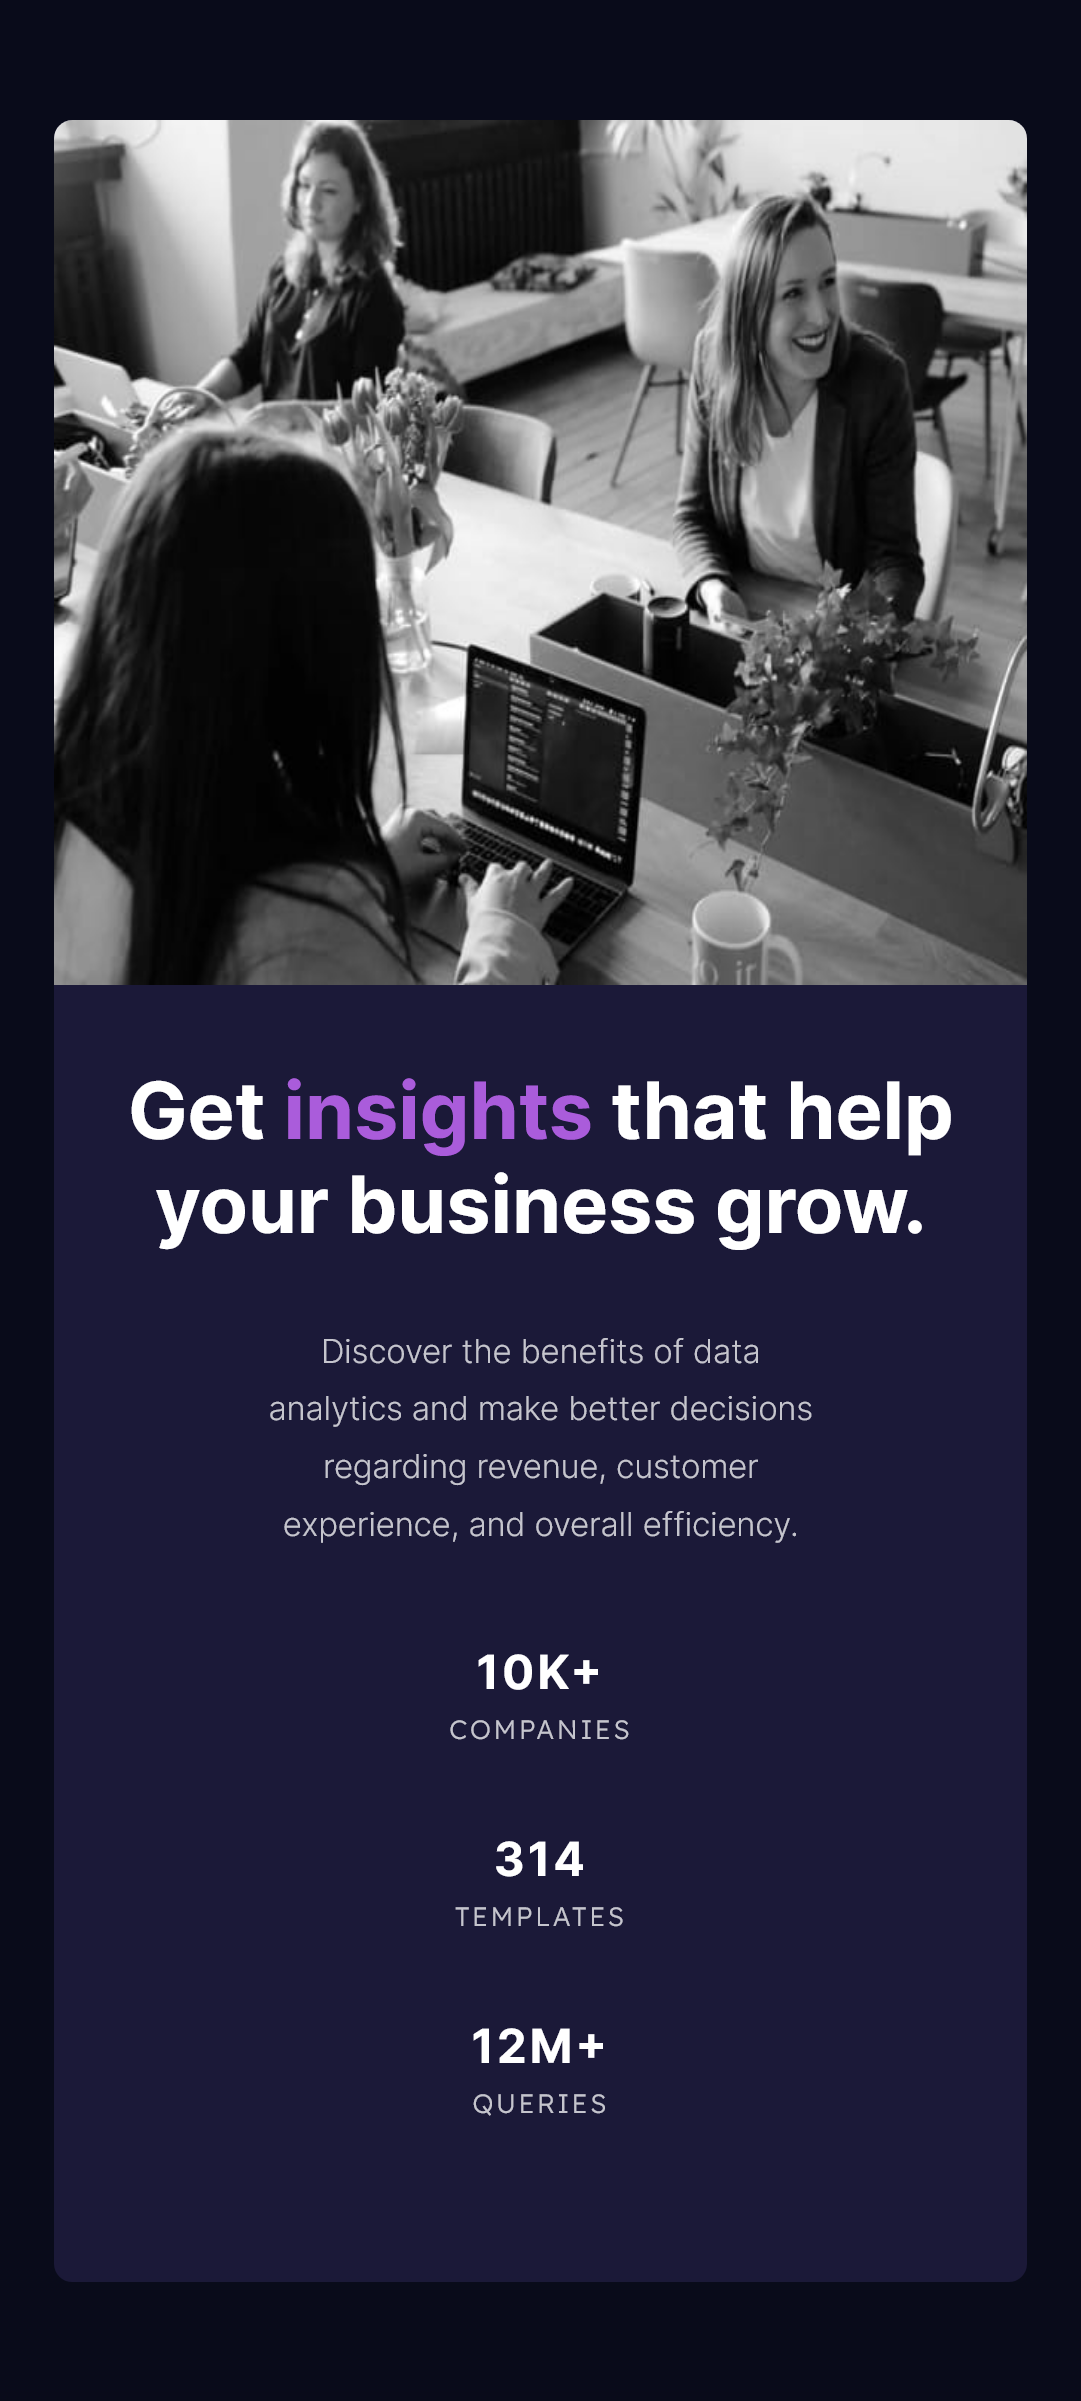
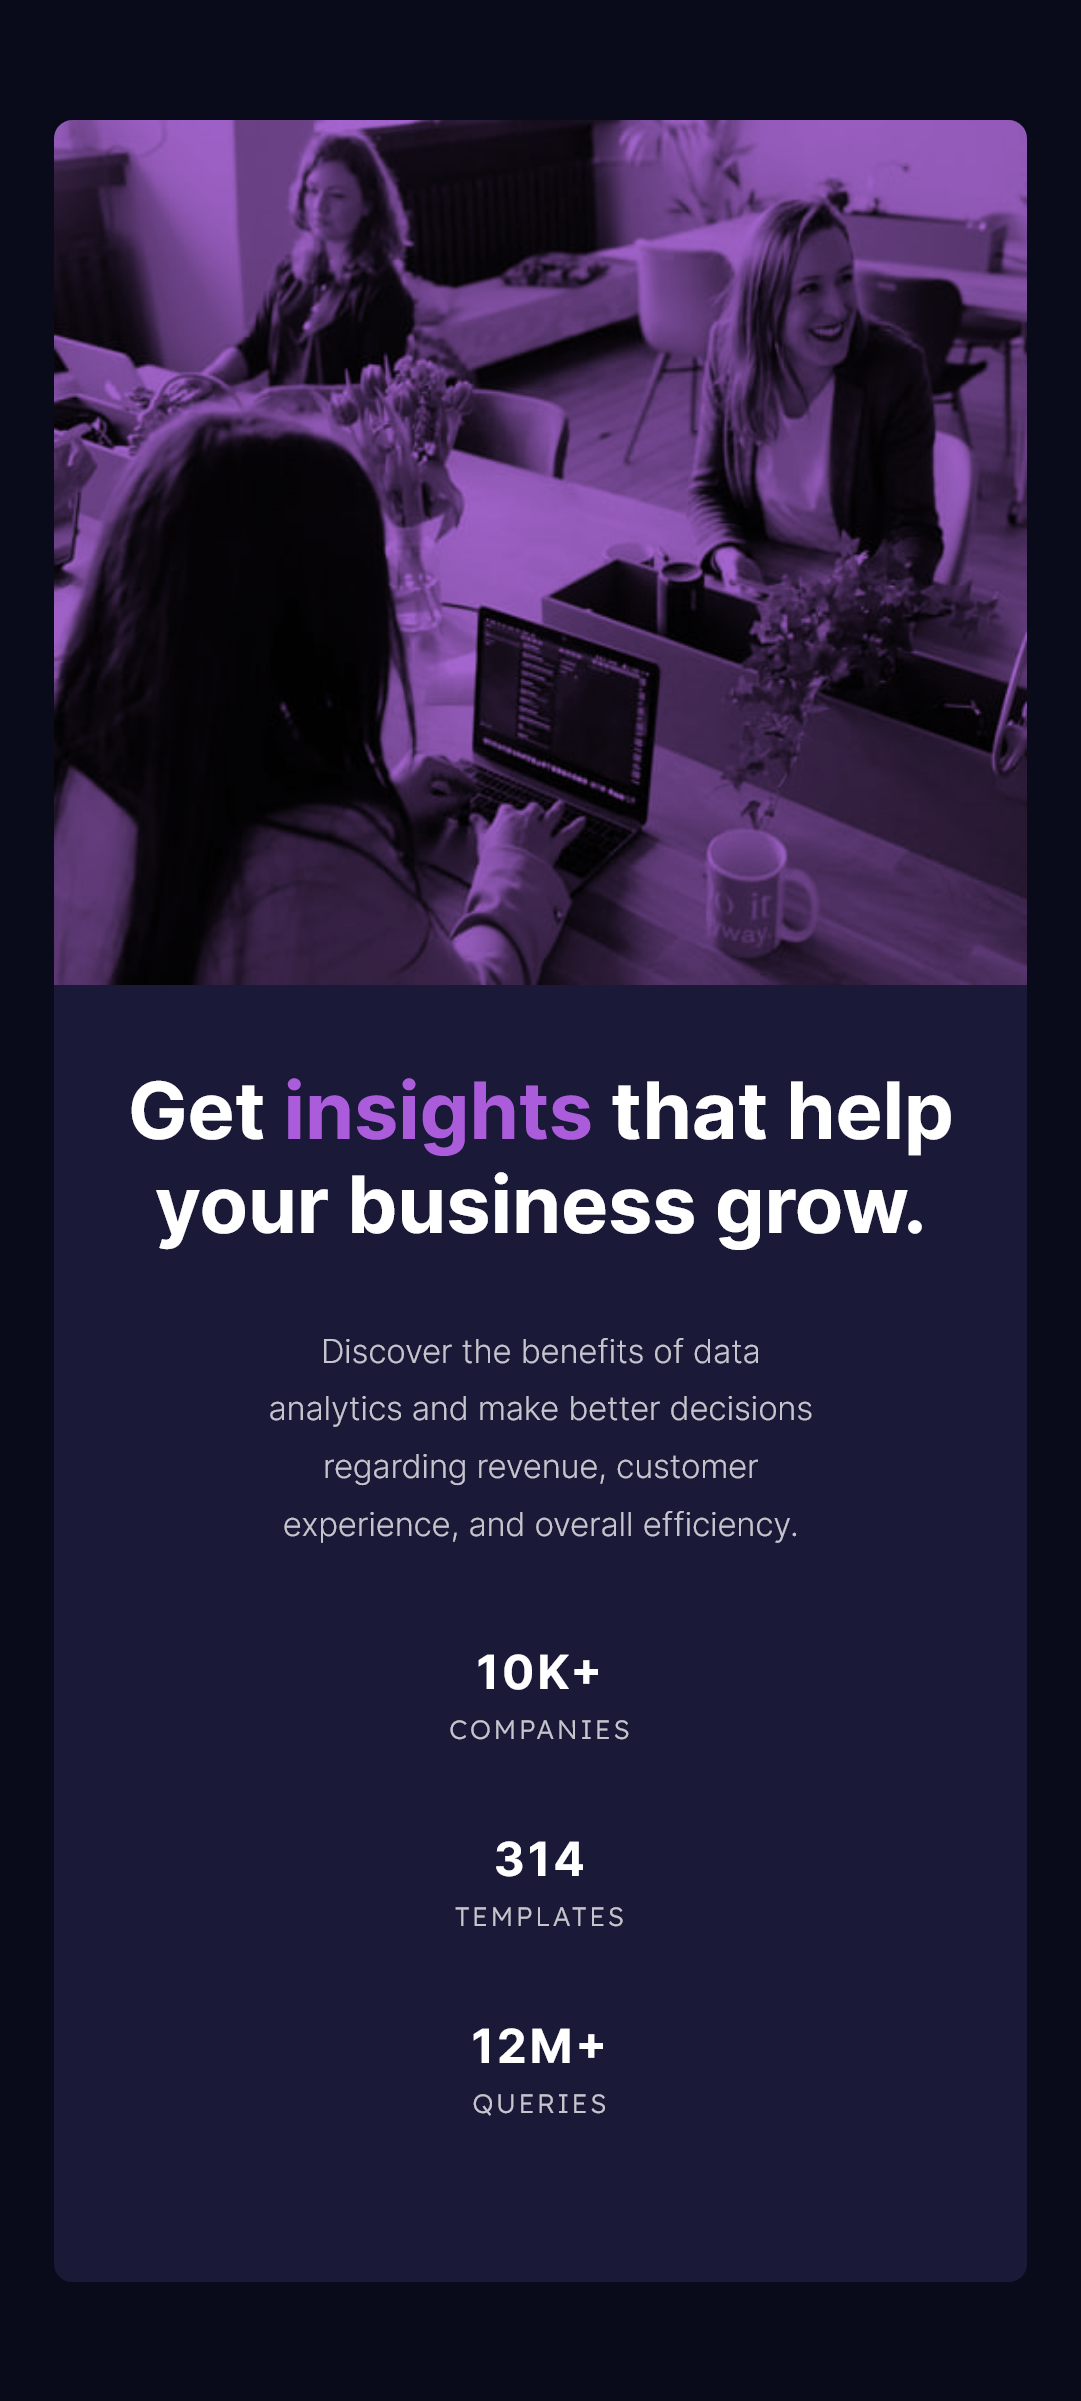
Purple overlay added. HTML Changed. Readme changed.

Changed region(s): [[0.0305, 0.0312, 0.9769, 0.4373]]

diff --git a/style.css b/style.css
@@ -21,6 +21,7 @@
     --clr-neutral-slightly-transparent-white-h1: hsla(0, 0%, 100%, 0.6);
 }
 
+/* general settings */
 * {
     font-size: 15px;
     margin: 0px;
@@ -50,46 +51,42 @@ p {
     color: var(--clr-neutral-slightly-transparent-white-p);
 }
 
+/* stats card */
 .stats-card {
     display: flex;
-    /*align-items: center;*/
     width: 80%;
     height: 360px;
-    /*margin: 30px 18px 30px 18px;*/
     background-color: var(--clr-primary-dark-desaturated-blue);
     border-radius: 7px;
     margin-left: auto;
     margin-right: auto;
 }
 
+/* img div */
 .img-box {
     order: 2;
     width: 86%;
     height: 100%;
-    padding-left: 1%;
-}
-
-.img-box::before {
-    content: "";
-    background-color: var(--clr-primary-soft-violet);
-    height: 100%;
-    width: 100%;
-}
-
-.img-box picture {
-    width: 100%;
-    height: 100%;
-}
-
-.img-box img {
-    width: 100%;
-    height: 100%;
+    padding-left: 0;
+    background-color: hsla(277, 64%, 65%, 0.900);
     border-top-left-radius: 0px;
     border-top-right-radius: 7px;
     border-bottom-left-radius: 0px;
     border-bottom-right-radius: 7px;
 }
 
+.img-box picture {
+    width: 100%;
+    height: 100%;
+    mix-blend-mode: multiply;
+}
+
+.img-box img {
+    width: 100%;
+    height: 100%;
+}
+
+/* stats div */
 .stats-box {
     color: var(--clr-neutral-slightly-transparent-white-p);
     font-family: var(--ff-lexend-deca);
@@ -127,6 +124,7 @@ p {
     font-weight: var(--fw-bold);
 }
 
+/* main box */
 .main-box {
     display: flex;
     flex-direction: column;
@@ -200,6 +198,10 @@ p {
         margin-top: 0;
         padding: 0;
         text-align: center;
+        border-top-left-radius: 7px;
+        border-top-right-radius: 7px;
+        border-bottom-left-radius: 0px;
+        border-bottom-right-radius: 0px;
     }
 
     .img-box picture {
@@ -210,10 +212,6 @@ p {
     .img-box img {
         height: 100%;
         width: 100%;
-        border-top-right-radius: 7px;
-        border-top-left-radius: 7px;
-        border-bottom-left-radius: 0px;
-        border-bottom-right-radius: 0px;
     }
 
     /* main box */
@@ -224,7 +222,6 @@ p {
         margin: 0;
     }
 
-    /* heading box */
     .heading-box {
         height: 20%;
         width: 100%;
@@ -239,7 +236,6 @@ p {
         margin: 0;
     }
 
-    /* paragraph box */
     .paragraph-box {
         margin-left: auto;
         margin-right: auto;
@@ -256,7 +252,6 @@ p {
         padding: 0;
     }
 
-    /* stats box */
     .stats-box {
         margin-left: auto;
         margin-right: auto;
@@ -285,9 +280,3 @@ p {
         margin: 0;
     }
 }
-
-
-
-
-/* Desktop and Mobile widths */
-/* Mobile: 375px  ||  Desktop: 1440px */

diff --git a/index.html b/index.html
@@ -19,8 +19,7 @@
     <div class="stats-card">
       <div class="img-box">
         <picture class="card-bg">
-          <source media="(min-width: 769px)" srcset="./images/image-header-desktop.jpg">
-          <source media="(max-width: 768px)" srcset="./images/image-header-mobile.jpg">
+          <source media="(min-width: 769px)" srcset="./images/image-header-mobile.jpg">
           <img src="./images/image-header-desktop.jpg" alt="Teamwork">
         </picture>
       </div>

diff --git a/README.md b/README.md
@@ -30,7 +30,7 @@ Users should be able to:
 <p align="center"><img src="./screenshots/desktop-ver.png"></p>
 
 #### Mobile Version
-<p align="center" style="height: auto;"><img src="./screenshots/mobile-ver.png"></p>
+<p align="center" style="height: 390px; height: 600px"><img src="./screenshots/mobile-ver.png"></p>
 
 
 ### Links
@@ -50,15 +50,16 @@ First, I structured the HTML, which I believe is correct and semantic. Then, I w
 
 ### What I learned
 
-Never start coding the desktop version first.
+Never start coding the desktop version first. And i learned how to use mix-blend-mode, which is very useful in some cases.
 
 ### Continued development
 
-I want to improve the CSS and finish the project, adding an overlay color over the image, which is what's missing. 
+I want to improve my CSS coding and finish the project the right way.
 
 ### Useful resources
 
-- [ChatGPT](https://chat.openai.com) - It helped me a lot. I don't need to waste time searching on Google or making a post on StackOverflow for possible solution for my problems. It is a great ally for studying. 
+- [ChatGPT](https://chat.openai.com) - It helped me a lot. I don't need to waste time searching on Google or making a post on StackOverflow for possible solution for my problems. It is a great ally for studying.
+- [W3Schools](https://www.w3schools.com) - W3Schools is a website optimized for learning, testing, and training. Examples might be simplified to improve reading and basic understanding.
 
 ## Author
 
@@ -69,6 +70,6 @@ I want to improve the CSS and finish the project, adding an overlay color over t
 
 ## Acknowledgments
 
-If you want to help me, just fork it and commit it. Feel free to do so.
+Thanks to [Adán Estévez](https://www.frontendmentor.io/profile/rafdidact) for helping me improve my html code and [chicaboom-73](https://www.frontendmentor.io/profile/chicaboom-73) for suggesting me to use the **mix-blend-mode** property to apply an overcolor to the image so that it finally looks the same as the challenge project.
 
 
